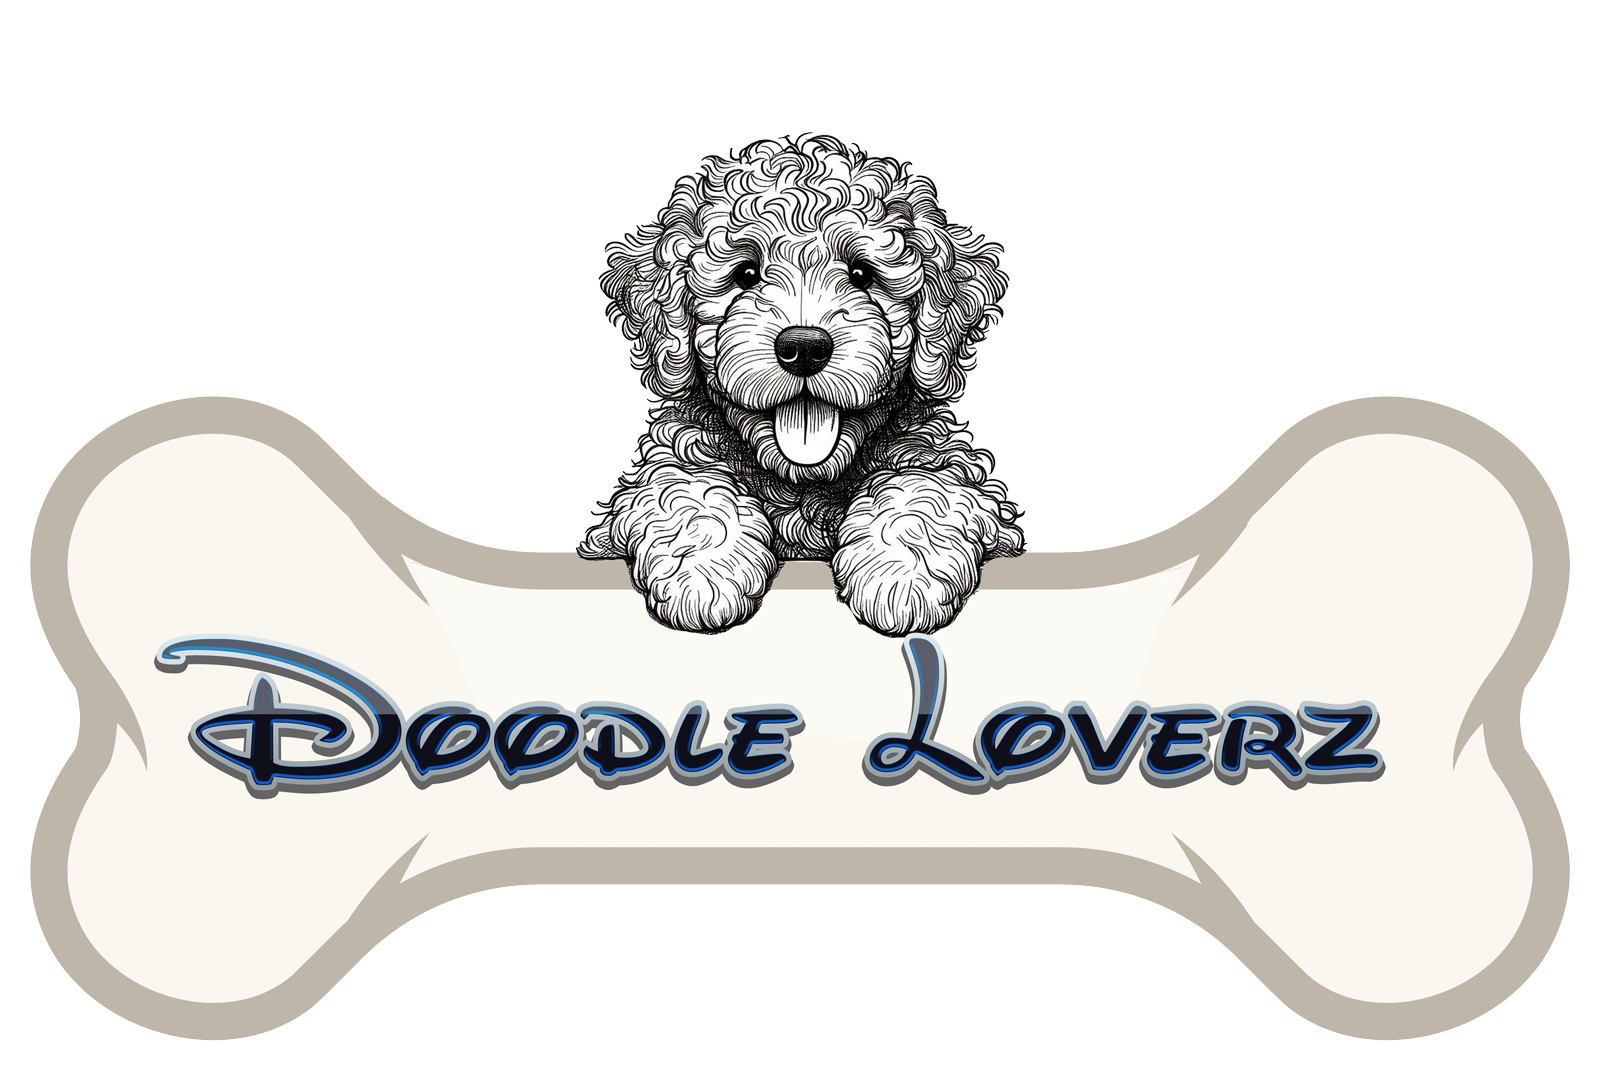
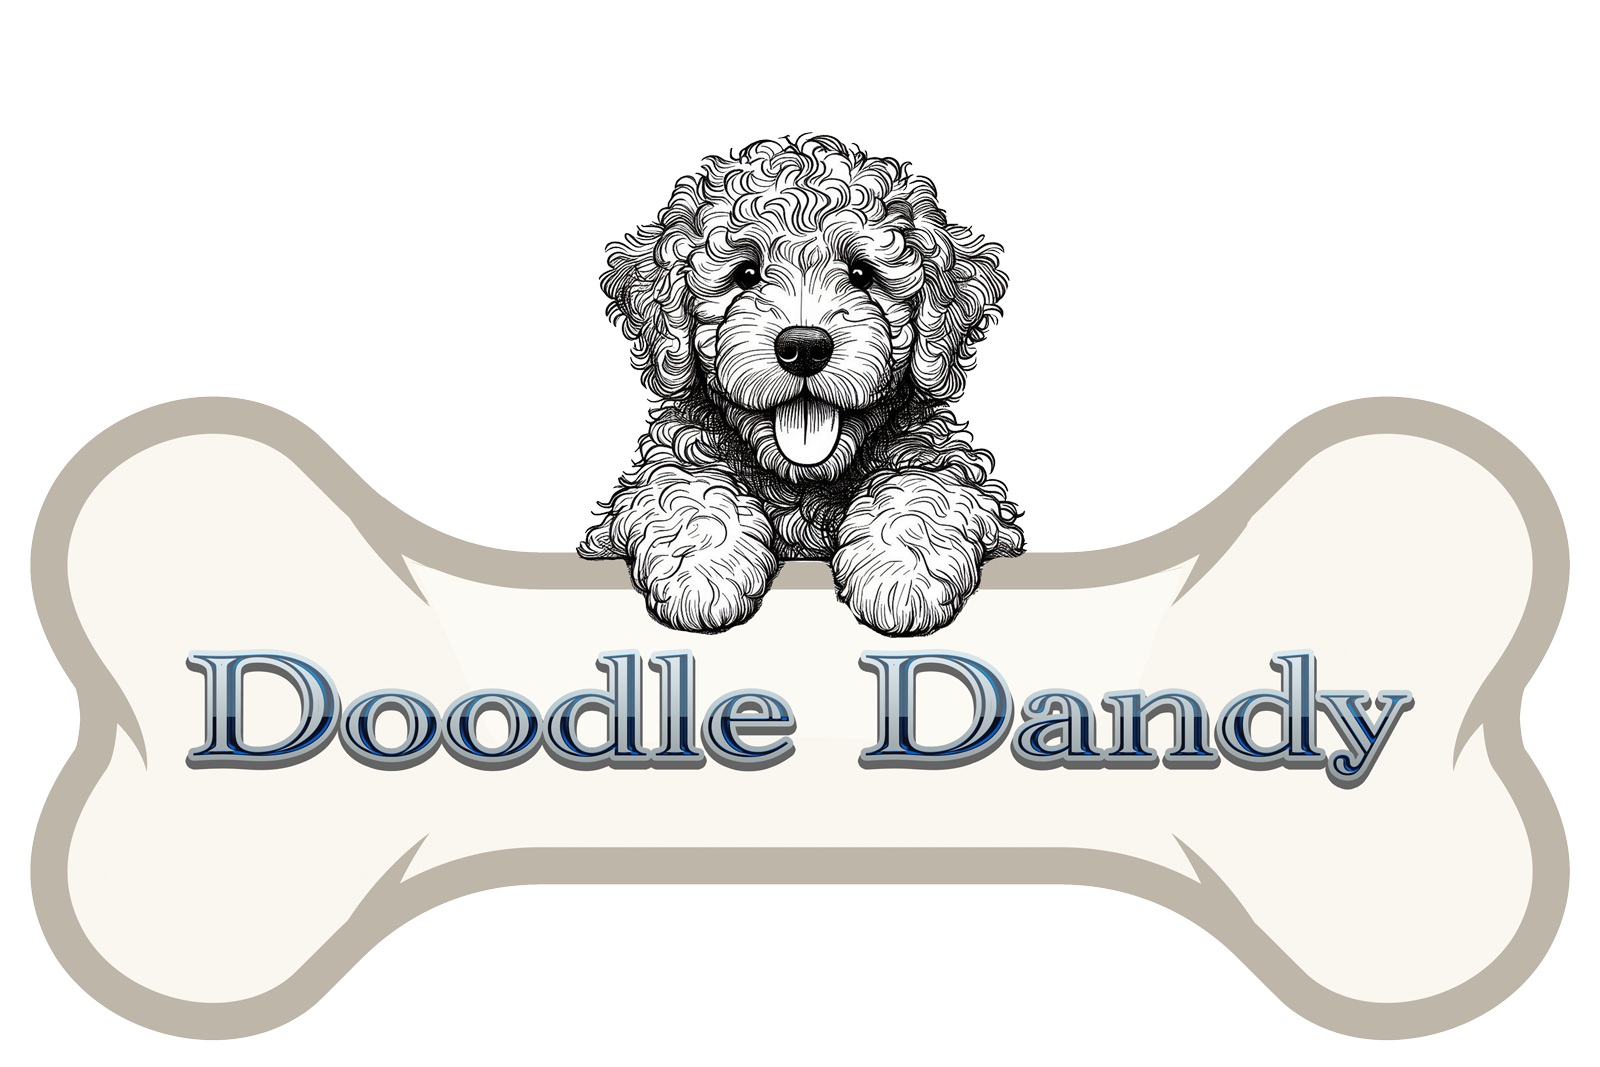
switch to Doodle Dandy

Changed region(s): [[0.0938, 0.5876, 0.5, 0.7732], [0.5312, 0.5876, 0.9062, 0.7423]]

diff --git a/contact/index.html b/contact/index.html
@@ -1,41 +1,55 @@
-<!DOCTYPE html>
+<!doctype html>
 <html lang="en">
+  <head>
+    <meta charset="UTF-8" />
+    <meta http-equiv="X-UA-Compatible" content="IE=edge" />
+    <meta name="viewport" content="width=device-width, initial-scale=1.0" />
+    <title>Contact us | Doodle Dandy</title>
+    <link rel="stylesheet" href="../assets/vendor/simplecss/simple.min.css" />
+    <link
+      rel="stylesheet"
+      href="../assets/vendor/fontawesome/6.2.1/css/fontawesome.min.css"
+    />
+    <link
+      rel="stylesheet"
+      href="../assets/vendor/fontawesome/6.2.1/css/brands.min.css"
+    />
+    <link
+      rel="stylesheet"
+      href="../assets/vendor/fontawesome/6.2.1/css/solid.min.css"
+    />
+    <link rel="stylesheet" href="../assets/styles/main.css" />
+    <link
+      rel="shortcut icon"
+      href="../assets/images/favicon.ico"
+      type="image/x-icon"
+    />
+  </head>
 
-<head>
-	<meta charset="UTF-8">
-	<meta http-equiv="X-UA-Compatible" content="IE=edge">
-	<meta name="viewport" content="width=device-width, initial-scale=1.0">
-	<title>Contact us | Doodle Loverz</title>
-	<link rel="stylesheet" href="../assets/vendor/simplecss/simple.min.css">
-	<link rel="stylesheet" href="../assets/vendor/fontawesome/6.2.1/css/fontawesome.min.css">
-	<link rel="stylesheet" href="../assets/vendor/fontawesome/6.2.1/css/brands.min.css">
-	<link rel="stylesheet" href="../assets/vendor/fontawesome/6.2.1/css/solid.min.css">
-	<link rel="stylesheet" href="../assets/styles/main.css">
-	<link rel="shortcut icon" href="../assets/images/favicon.ico" type="image/x-icon">
-</head>
-
-<body>
-	<header>
-		<img src="../assets/images/header.png" alt="Doodle Loverz">
-		<nav>
-			<a href="/">Home</a>
-			<a href="/contact" class="current">Contact us</a>
-		</nav>
-	</header>
-	<main>
-		<h1>Contact us</h1>
-		<p>If you have any questions or concerns, please feel free to reach out to us using either of the below methods.</p>
-		<ul>
-			<li>
-				<i class="fa-solid fa-envelope fa-pad-right"></i>
-				<a href="mailto:adopt@doodleloverz.com">adopt@doodleloverz.com</a>
-			</li>
-			<li>
-				<i class="fa-solid fa-phone fa-pad-right"></i>
-				<a href="tel:+14174209882">417-420-9882</a>
-			</li>
-		</ul>
-	</main>
-</body>
-
+  <body>
+    <header>
+      <img src="../assets/images/header.png" alt="Doodle Dandy" />
+      <nav>
+        <a href="/">Home</a>
+        <a href="/contact" class="current">Contact us</a>
+      </nav>
+    </header>
+    <main>
+      <h1>Contact us</h1>
+      <p>
+        If you have any questions or concerns, please feel free to reach out to
+        us using either of the below methods.
+      </p>
+      <ul>
+        <li>
+          <i class="fa-solid fa-envelope fa-pad-right"></i>
+          <a href="mailto:adopt@doodledandy.dog">adopt@doodledandy.dog</a>
+        </li>
+        <li>
+          <i class="fa-solid fa-phone fa-pad-right"></i>
+          <a href="tel:+14174209882">417-420-9882</a>
+        </li>
+      </ul>
+    </main>
+  </body>
 </html>

diff --git a/appointment/index.html b/appointment/index.html
@@ -1,35 +1,55 @@
-<!DOCTYPE html>
+<!doctype html>
 <html lang="en">
+  <head>
+    <meta charset="UTF-8" />
+    <meta http-equiv="X-UA-Compatible" content="IE=edge" />
+    <meta name="viewport" content="width=device-width, initial-scale=1.0" />
+    <title>Appointment | Doodle Dandy</title>
+    <link rel="stylesheet" href="../assets/vendor/simplecss/simple.min.css" />
+    <link
+      rel="stylesheet"
+      href="../assets/vendor/fontawesome/6.2.1/css/fontawesome.min.css"
+    />
+    <link
+      rel="stylesheet"
+      href="../assets/vendor/fontawesome/6.2.1/css/brands.min.css"
+    />
+    <link
+      rel="stylesheet"
+      href="../assets/vendor/fontawesome/6.2.1/css/solid.min.css"
+    />
+    <link rel="stylesheet" href="../assets/styles/main.css" />
+    <link
+      rel="shortcut icon"
+      href="../assets/images/favicon.ico"
+      type="image/x-icon"
+    />
+  </head>
 
-<head>
-	<meta charset="UTF-8">
-	<meta http-equiv="X-UA-Compatible" content="IE=edge">
-	<meta name="viewport" content="width=device-width, initial-scale=1.0">
-	<title>Appointment | Doodle Loverz</title>
-	<link rel="stylesheet" href="../assets/vendor/simplecss/simple.min.css">
-	<link rel="stylesheet" href="../assets/vendor/fontawesome/6.2.1/css/fontawesome.min.css">
-	<link rel="stylesheet" href="../assets/vendor/fontawesome/6.2.1/css/brands.min.css">
-	<link rel="stylesheet" href="../assets/vendor/fontawesome/6.2.1/css/solid.min.css">
-	<link rel="stylesheet" href="../assets/styles/main.css">
-	<link rel="shortcut icon" href="../assets/images/favicon.ico" type="image/x-icon">
-</head>
-
-<body>
-	<header>
-		<img src="../assets/images/header.png" alt="Doodle Loverz">
-	</header>
-	<main>
-		<h1>Appointment</h1>
-		<p>To schedule an appointment to pick up your new pet, click the link below!</p>
-		<p><strong>Please be sure to text us at 417-420-9882 after making an appointment so we can confirm
-				your scheduled date and time.</strong></p>
-		<ul>
-			<li>
-				<i class="fa-solid fa-calendar-day fa-pad-right"></i>
-				<a href="https://app.simplymeet.me/doodleloverz">Schedule appointment</a>
-			</li>
-		</ul>
-	</main>
-</body>
-
+  <body>
+    <header>
+      <img src="../assets/images/header.png" alt="Doodle Dandy" />
+    </header>
+    <main>
+      <h1>Appointment</h1>
+      <p>
+        To schedule an appointment to pick up your new pet, click the link
+        below!
+      </p>
+      <p>
+        <strong
+          >Please be sure to text us at 417-420-9882 after making an appointment
+          so we can confirm your scheduled date and time.</strong
+        >
+      </p>
+      <ul>
+        <li>
+          <i class="fa-solid fa-calendar-day fa-pad-right"></i>
+          <a href="https://app.simplymeet.me/doodledandy"
+            >Schedule appointment</a
+          >
+        </li>
+      </ul>
+    </main>
+  </body>
 </html>

diff --git a/contract/index.html b/contract/index.html
@@ -1,33 +1,44 @@
-<!DOCTYPE html>
+<!doctype html>
 <html lang="en">
+  <head>
+    <meta charset="UTF-8" />
+    <meta http-equiv="X-UA-Compatible" content="IE=edge" />
+    <meta name="viewport" content="width=device-width, initial-scale=1.0" />
+    <title>Contract | Doodle Dandy</title>
+    <link rel="stylesheet" href="../assets/vendor/simplecss/simple.min.css" />
+    <link
+      rel="stylesheet"
+      href="../assets/vendor/fontawesome/6.2.1/css/fontawesome.min.css"
+    />
+    <link
+      rel="stylesheet"
+      href="../assets/vendor/fontawesome/6.2.1/css/brands.min.css"
+    />
+    <link
+      rel="stylesheet"
+      href="../assets/vendor/fontawesome/6.2.1/css/solid.min.css"
+    />
+    <link rel="stylesheet" href="../assets/styles/main.css" />
+    <link
+      rel="shortcut icon"
+      href="../assets/images/favicon.ico"
+      type="image/x-icon"
+    />
+  </head>
 
-<head>
-  <meta charset="UTF-8">
-  <meta http-equiv="X-UA-Compatible" content="IE=edge">
-  <meta name="viewport" content="width=device-width, initial-scale=1.0">
-  <title>Contract | Doodle Loverz</title>
-  <link rel="stylesheet" href="../assets/vendor/simplecss/simple.min.css">
-  <link rel="stylesheet" href="../assets/vendor/fontawesome/6.2.1/css/fontawesome.min.css">
-  <link rel="stylesheet" href="../assets/vendor/fontawesome/6.2.1/css/brands.min.css">
-  <link rel="stylesheet" href="../assets/vendor/fontawesome/6.2.1/css/solid.min.css">
-  <link rel="stylesheet" href="../assets/styles/main.css">
-  <link rel="shortcut icon" href="../assets/images/favicon.ico" type="image/x-icon">
-</head>
-
-<body>
-  <header>
-    <img src="../assets/images/header.png" alt="Doodle Loverz">
-  </header>
-  <main>
-    <h1>Contract</h1>
-    <p>Please click the link below to complete your contract</p>
-    <ul>
-      <li>
-        <i class="fa-solid fa-file-contract fa-pad-right"></i>
-        <a href="https://tally.so/r/n9N6X4">Contract form</a>
-      </li>
-    </ul>
-  </main>
-</body>
-
+  <body>
+    <header>
+      <img src="../assets/images/header.png" alt="Doodle Dandy" />
+    </header>
+    <main>
+      <h1>Contract</h1>
+      <p>Please click the link below to complete your contract</p>
+      <ul>
+        <li>
+          <i class="fa-solid fa-file-contract fa-pad-right"></i>
+          <a href="https://tally.so/r/n9N6X4">Contract form</a>
+        </li>
+      </ul>
+    </main>
+  </body>
 </html>

diff --git a/index.html b/index.html
@@ -4,7 +4,7 @@
     <meta charset="UTF-8" />
     <meta http-equiv="X-UA-Compatible" content="IE=edge" />
     <meta name="viewport" content="width=device-width, initial-scale=1.0" />
-    <title>Doodle Loverz</title>
+    <title>Doodle Dandy</title>
     <link rel="stylesheet" href="./assets/vendor/simplecss/simple.min.css" />
     <link
       rel="stylesheet"
@@ -28,7 +28,7 @@
 
   <body>
     <header>
-      <img src="./assets/images/header.png" alt="Doodle Loverz" />
+      <img src="./assets/images/header.png" alt="Doodle Dandy" />
       <nav>
         <a href="/" class="current">Home</a>
         <a href="/contact">Contact us</a>
@@ -37,7 +37,7 @@
     <main>
       <h1>Welcome!</h1>
       <p>
-        Thanks for considering Doodle Loverz for your next family pet. Please
+        Thanks for considering Doodle Dandy for your next family pet. Please
         check out the links below to continue your journey
         <i class="fa-solid fa-paw"></i>
       </p>
@@ -46,13 +46,13 @@
         <li>
           <i class="fa-solid fa-dog"></i>
           <a
-            href="https://doodleloverz.notion.site/Doodle-Loverz-available-puppies-49bd05919f2b488ca924b17d14998bd2"
+            href="https://doodledandy.notion.site/Doodle-Dandy-Available-Pets-49bd05919f2b488ca924b17d14998bd2"
             >Available pets</a
           >
         </li>
         <li>
           <i class="fa-solid fa-file-lines fa-pad-right"></i>
-          <a href="https://forms.doodleloverz.com">Application</a>
+          <a href="https://forms.doodledandy.dog">Application</a>
         </li>
       </ul>
     </main>

diff --git a/README.md b/README.md
@@ -1,3 +1,3 @@
 # rescue
 
-source for doodleloverz.com assets
+source for doodledandy.dog assets
